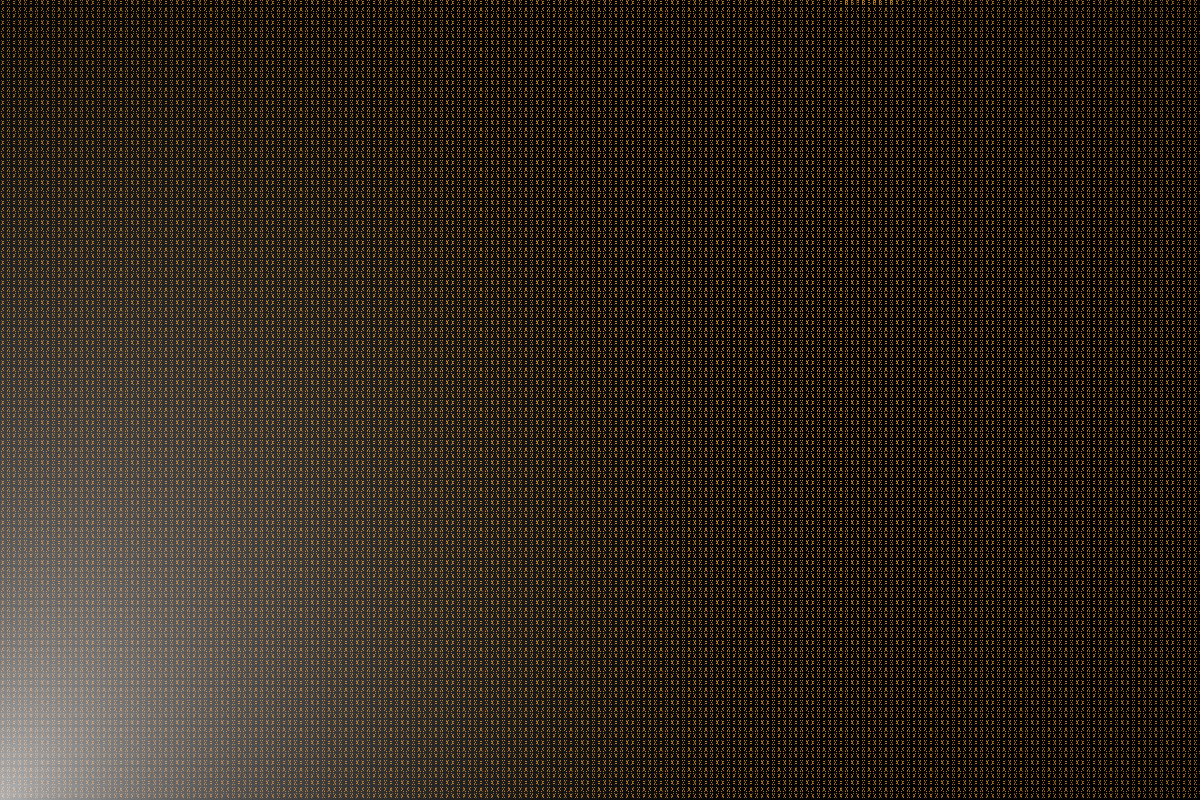
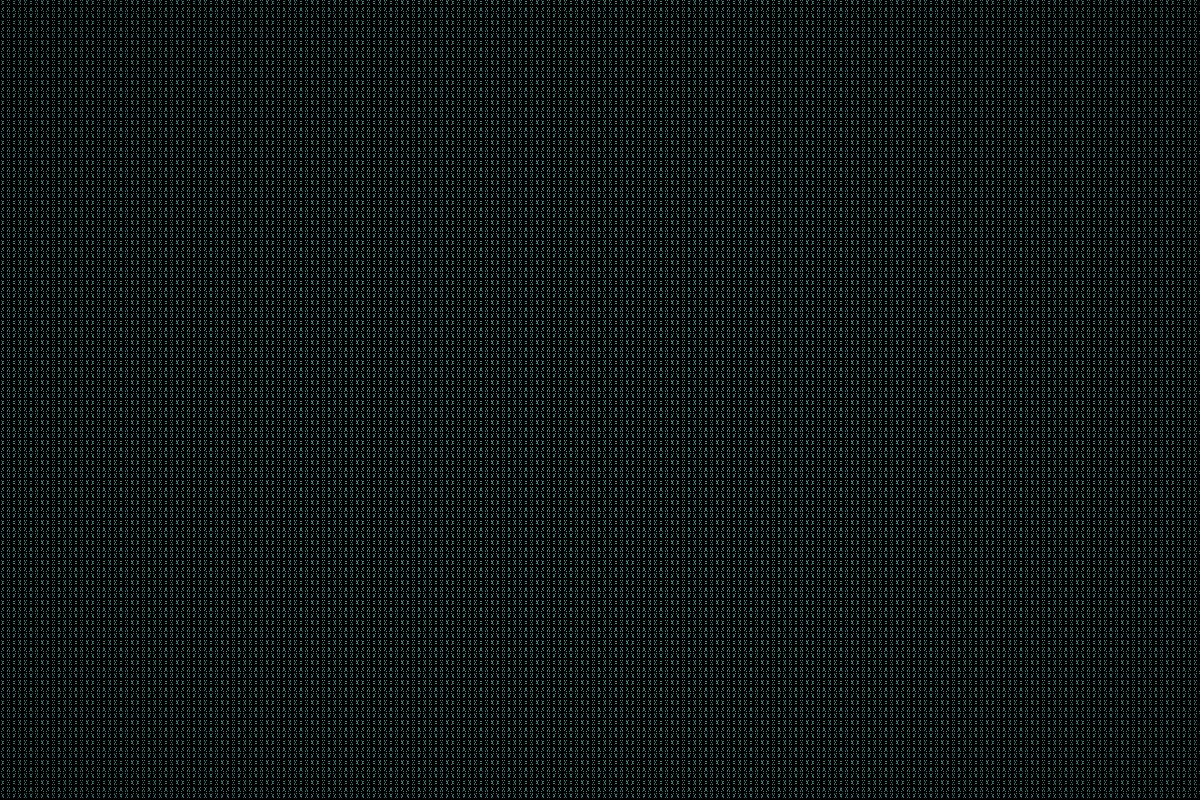
fix(viz): seed-varied wavefield + distinct tints, off-screen glow init, quantized captures
- kkbox tint changed from amber (#C8882A) to teal (#5A9090) — resolves byte-identical collision with revenue-forecast
- buildWavefieldSpec now derives waveFreq/waveAmp/wavePhase from mulberry32(seed) for per-scene wave variation
- AsciiEffect: wavePhase uniform added to shader; mousePos init moved to (-10000,-10000) so glow is invisible until real pointer input
- VizCanvas: ComposerMount wires spec.waveAmp/waveFreq/wavePhase into AsciiEffectImpl postfx (falls back via ??)
- capture-viz.mts: screenshot to buffer → sharp palette PNG (quality:80, effort:7); browser.close() in finally
- VizCaptureRoute: drop unused React namespace import (automatic JSX runtime)
- 2 new scenes tests: different seeds produce different wave fields; same seed stays deterministic

diff --git a/rlupo-portfolio/components/viz/AsciiEffect.ts b/rlupo-portfolio/components/viz/AsciiEffect.ts
@@ -75,6 +75,7 @@ uniform float noiseSpeed;
 uniform float waveAmplitude;
 uniform float waveFrequency;
 uniform float waveSpeed;
+uniform float wavePhase;
 uniform float glitchIntensity;
 uniform float glitchFrequency;
 uniform float brightnessAdjust;
@@ -128,8 +129,8 @@ void mainImage(const in vec4 inputColor, const in vec2 uv, out vec4 outputColor)
     }
   }
   if (effectiveWaveAmp > 0.0) {
-    workUV.x += sin(workUV.y * waveFrequency + time * waveSpeed) * effectiveWaveAmp;
-    workUV.y += cos(workUV.x * waveFrequency + time * waveSpeed) * effectiveWaveAmp;
+    workUV.x += sin(workUV.y * waveFrequency + time * waveSpeed + wavePhase) * effectiveWaveAmp;
+    workUV.y += cos(workUV.x * waveFrequency + time * waveSpeed + wavePhase) * effectiveWaveAmp;
   }
   vec4 sampledColor;
   if (aberrationStrength > 0.0) {
@@ -218,7 +219,8 @@ export class AsciiEffectImpl extends Effect {
   constructor(opts: AsciiEffectOptions = {}) {
     const {
       cellSize = 9, invert = true, color = true,
-      mousePos = new Vector2(0, 0),
+      // glow must not render until real pointer input
+      mousePos = new Vector2(-10000, -10000),
       resolution = new Vector2(1920, 1080),
       postfx = {},
       glyphAtlas = null, glyphTiles = 0,
@@ -258,6 +260,7 @@ export class AsciiEffectImpl extends Effect {
         ['waveAmplitude',      new Uniform(postfx.waveAmplitude ?? 0)],
         ['waveFrequency',      new Uniform(postfx.waveFrequency ?? 10)],
         ['waveSpeed',          new Uniform(postfx.waveSpeed ?? 1)],
+        ['wavePhase',          new Uniform(postfx.wavePhase ?? 0)],
         ['glitchIntensity',    new Uniform(postfx.glitchIntensity ?? 0)],
         ['glitchFrequency',    new Uniform(postfx.glitchFrequency ?? 2)],
         ['brightnessAdjust',   new Uniform(postfx.brightnessAdjust ?? 0)],

diff --git a/rlupo-portfolio/components/viz/scenes.ts b/rlupo-portfolio/components/viz/scenes.ts
@@ -1,5 +1,6 @@
 // components/viz/scenes.ts
 import { VizParams } from '../../types';
+import { mulberry32 } from '../../lib/viz/params';
 
 export type GeometryType = 'box' | 'sphere' | 'plane' | 'octahedron';
 
@@ -15,6 +16,9 @@ export interface SceneSpec {
   spacing: number;
   gridSize?: number;       // lattice: dimension of n×n×n grid
   planeSegments?: number;  // wavefield: subdivision count
+  waveFreq?: number;       // wavefield: seeded frequency (0.8–1.6)
+  waveAmp?: number;        // wavefield: seeded amplitude (0.6–1.2)
+  wavePhase?: number;      // wavefield: seeded phase offset (0–2π)
 }
 
 export function buildLatticeSpec(p: VizParams): SceneSpec {
@@ -30,6 +34,10 @@ export function buildLatticeSpec(p: VizParams): SceneSpec {
 }
 
 export function buildWavefieldSpec(p: VizParams): SceneSpec {
+  const rng = mulberry32(p.seed);
+  const waveFreq  = 0.8 + rng() * 0.8;          // 0.8–1.6
+  const waveAmp   = 0.6 + rng() * 0.6;           // 0.6–1.2
+  const wavePhase = rng() * 2 * Math.PI;         // 0–2π
   return {
     archetype: 'wavefield', seed: p.seed, density: p.density, speed: p.speed, tint: p.tint,
     instanceCount: 1,
@@ -37,6 +45,7 @@ export function buildWavefieldSpec(p: VizParams): SceneSpec {
     animationAmplitude: 0.4 * p.speed,
     spacing: 0,
     planeSegments: Math.max(10, Math.round(40 * p.density)),
+    waveFreq, waveAmp, wavePhase,
   };
 }
 

diff --git a/rlupo-portfolio/components/viz/VizCanvas.tsx b/rlupo-portfolio/components/viz/VizCanvas.tsx
@@ -35,9 +35,15 @@ function VelocityBridge({
 function ComposerMount({
   effectRef,
   tint,
+  waveAmp,
+  waveFreq,
+  wavePhase,
 }: {
   effectRef: React.RefObject<AsciiEffectImpl | null>;
   tint: string;
+  waveAmp?: number;
+  waveFreq?: number;
+  wavePhase?: number;
 }) {
   const { gl } = useThree();
   const [ready, setReady] = useState(false);
@@ -68,9 +74,14 @@ function ComposerMount({
         glyphAtlas, glyphTiles: TERMINAL_SYMBOLS.length,
         volumeShading: true,
         tintColor: tintVec,
-        postfx: { contrastAdjust: 1.6, scanlineIntensity: 0.06, vignetteIntensity: 0.2 },
+        postfx: {
+          contrastAdjust: 1.6, scanlineIntensity: 0.06, vignetteIntensity: 0.2,
+          waveAmplitude: waveAmp ?? 0,
+          waveFrequency: waveFreq ?? 10,
+          wavePhase: wavePhase ?? 0,
+        },
       }),
-    [tintVec, glyphAtlas],
+    [tintVec, glyphAtlas, waveAmp, waveFreq, wavePhase],
   );
 
   useEffect(() => {
@@ -235,7 +246,8 @@ export const VizCanvas: React.FC<VizCanvasProps> = ({
         }}
       >
         <VizScene spec={spec} />
-        <ComposerMount effectRef={effectRef} tint={params.tint} />
+        <ComposerMount effectRef={effectRef} tint={params.tint}
+          waveAmp={spec.waveAmp} waveFreq={spec.waveFreq} wavePhase={spec.wavePhase} />
         <VelocityBridge effectRef={effectRef} velocityRef={velocityRef} />
       </Canvas>
     </div>

diff --git a/rlupo-portfolio/components/viz/__tests__/scenes.test.ts b/rlupo-portfolio/components/viz/__tests__/scenes.test.ts
@@ -50,4 +50,20 @@ describe('buildSceneSpec determinism and constraints', () => {
       expect(spec.tint, id).toBe(params.tint);
     }
   });
+
+  it('wavefield: different seeds produce different wave fields (seed-variance guard)', () => {
+    const a = buildSceneSpec({ archetype: 'wavefield', seed: 31, density: 0.8, speed: 0.5, tint: '#C8882A' });
+    const b = buildSceneSpec({ archetype: 'wavefield', seed: 44, density: 1.0, speed: 0.7, tint: '#5A9090' });
+    const differs = a.waveFreq !== b.waveFreq || a.waveAmp !== b.waveAmp || a.wavePhase !== b.wavePhase;
+    expect(differs, 'waveFreq/waveAmp/wavePhase must differ between seeds 31 and 44').toBe(true);
+  });
+
+  it('wavefield: same seed always produces identical wave fields (determinism)', () => {
+    const params = { archetype: 'wavefield' as const, seed: 31, density: 0.8, speed: 0.5, tint: '#C8882A' };
+    const a = buildSceneSpec(params);
+    const b = buildSceneSpec(params);
+    expect(a.waveFreq).toBe(b.waveFreq);
+    expect(a.waveAmp).toBe(b.waveAmp);
+    expect(a.wavePhase).toBe(b.wavePhase);
+  });
 });

diff --git a/rlupo-portfolio/lib/viz/params.ts b/rlupo-portfolio/lib/viz/params.ts
@@ -19,7 +19,7 @@ export const VIZ_PARAMS: Record<string, VizParams> = {
   'ferroml':          { archetype: 'lattice',       seed: 22, density: 1.2, speed: 0.8, tint: '#E85D3A' },
   // Wavefield — displaced plane for time-series / forecasting
   'revenue-forecast': { archetype: 'wavefield',    seed: 31, density: 0.8, speed: 0.5, tint: '#C8882A' },
-  'kkbox':            { archetype: 'wavefield',    seed: 44, density: 1.0, speed: 0.7, tint: '#C8882A' },
+  'kkbox':            { archetype: 'wavefield',    seed: 44, density: 1.0, speed: 0.7, tint: '#5A9090' },
   // Particleflow — streaming particles for ML pipelines and agent tooling
   'ferroml-plugin':   { archetype: 'particleflow', seed: 53, density: 0.9, speed: 1.1, tint: '#5A9090' },
   'gsd-ml':           { archetype: 'particleflow', seed: 61, density: 1.1, speed: 1.2, tint: '#5A9090' },

diff --git a/rlupo-portfolio/components/VizCaptureRoute.tsx b/rlupo-portfolio/components/VizCaptureRoute.tsx
@@ -1,5 +1,5 @@
 // components/VizCaptureRoute.tsx
-import React, { Suspense, lazy, useRef } from 'react';
+import { Suspense, lazy, useRef } from 'react';
 import { VIZ_PARAMS } from '../lib/viz/params';
 
 const VizCanvasLazy = lazy(
